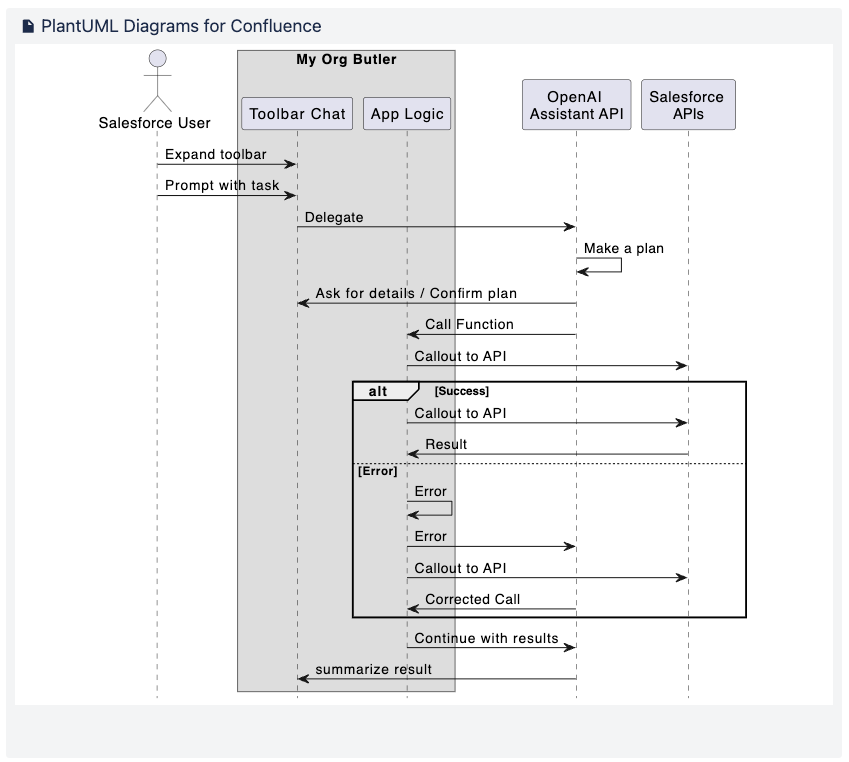
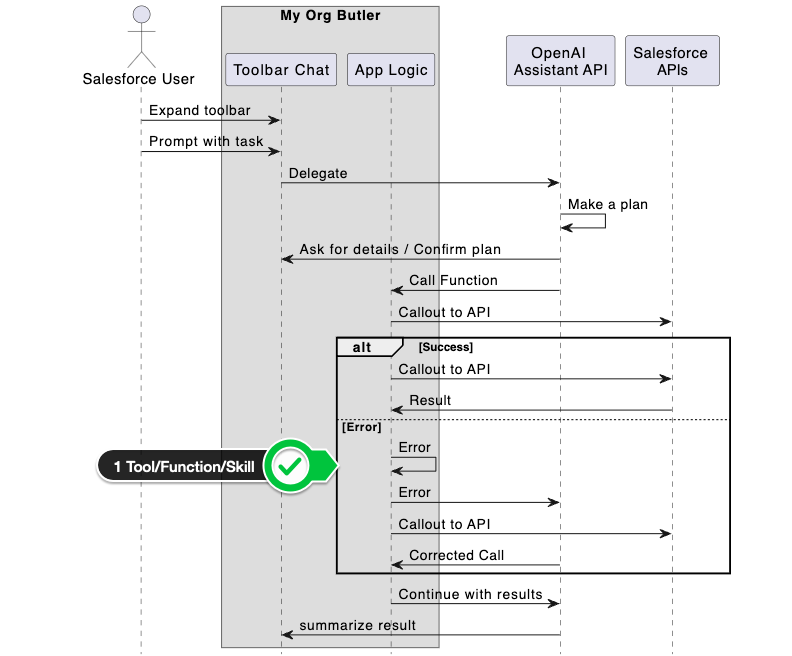
More text better image

Changed region(s): [[0.0303, 0.0, 0.9394, 1.0], [0.6061, 0.0305, 0.9091, 0.1829], [0.7879, 0.7317, 0.8182, 0.7622]]

diff --git a/README.md b/README.md
@@ -1,31 +1,26 @@
-# My Org Butler
+## My Org Butler
 
-Native Salesforce app that utilizes the Open AI Assistant API to provide a semi-autonomous agent in your org's utility bar. Using Natural language chat the Org Butler can answer the user's questions about org data and metatada, but also perform tasks on behalf of the user. Creating or modifying records, sending emails etc.
+...is a Salesforce app with a Utility Bar chat component that helps org users with their daily work. Using natural language it answers questions about data, metadata and configuration. It can also perform tasks on the user's behalf, like creating or modifying records, making configuration changes or notifying other people.
 
 [![](http://img.youtube.com/vi/fcNnBZFvQHc/hqdefault.jpg)](https://youtu.be/fcNnBZFvQHc "")
 
-The Org Butler is a small, native, self-contained Salesforce app with only one UI. A toolbar item that the org's admin can add to basically every screen in the org. The toolbar is collapsed most of the time but can be expanded by the user. It then reveals a simple, small chatbot with a predefined Open AI assistant. It plays the role of a friendly, helpful Butler that answers questions about org data (respecting the user's permissions) and metadata and performs specific jobs in the org (modify data, metadata). It uses a single Open AI Function configured to make arbitrary callouts to Salesforce APIs. Chat GPT knows a lot about those APIs, and the Assitant also contains a JSON Postman Collection that technically describes all those APIs.
+It behaves like a good Butler, in the sense that it does things in the background and only bugs the user when something is unclear. It also would not just do harmful things that are not in the permission of a user and could create potential harm.
 
-The Assistant is prompted to make a work plan to fulfill the user's task and delegate Function calls back to the Salesforce app. The app then sends back the successful response from the API calls or the error states back to the assistant for corrections or summaries to the user.
+This is made possible by Open AI's Assitant API, an Agent technology similar to AutoGPT or Salesforce upcoming Copilots. It uses LLM reasoning to understand a request and makes an action plan based on automations that were made available to the agent. Open AI calls them Functions or Plugins, Salesforce calls them Skills.
 
-Here is a short interaction diagram showing the participants and interactions in such a user-butler dialog:
+Those automation are not performed by the LLM but just delegated back to Salesforce, which then calls deterministic code.
+
+This PoC shows that in the realm of Salesforce where there is a well-documented REST API for nearly everything a single Skill or Function is sufficient. The Org Butler does everything it does just by construting REST API request as shown in this PlantUML:
 
 ![](/resources/plantuml.png)
 
-
-
 ### Highlight
 
-- Write Rules in simple Natural language and group them in Rulesets.
-- Run Analysis on Salesforce Files or Attachments
-- Analysis Results will be justified by document quotes.
-- Monitor the Accuracy of the AI using scheduled Regression Tests.
-- Native Salesforce App with Custom Objects for Rules, Rulesets, Analyses etc.
-- Uses Freemium Extractor API to extract text from documents (use your own API key)
-- Uses Open AI API for text reasoning (use your own API key)
-- Export & Import of Rulesets
-- Comfortable Setup UI for Post-Install Steps
-- Uses Custom Metadata Types to use other LLMs (was tested with Claude and Open Source Llama2)
+- Leverages OpenAI Assistant API
+- State Management covered by OpenAI
+- Knowledge Retrieval (check the validity of API calls) done by OpenAI
+- Implements autonomous agents like AutoGPT
+- Uses packageable Named Credentials for API Authentication
 
 ### How do I use it?
 
